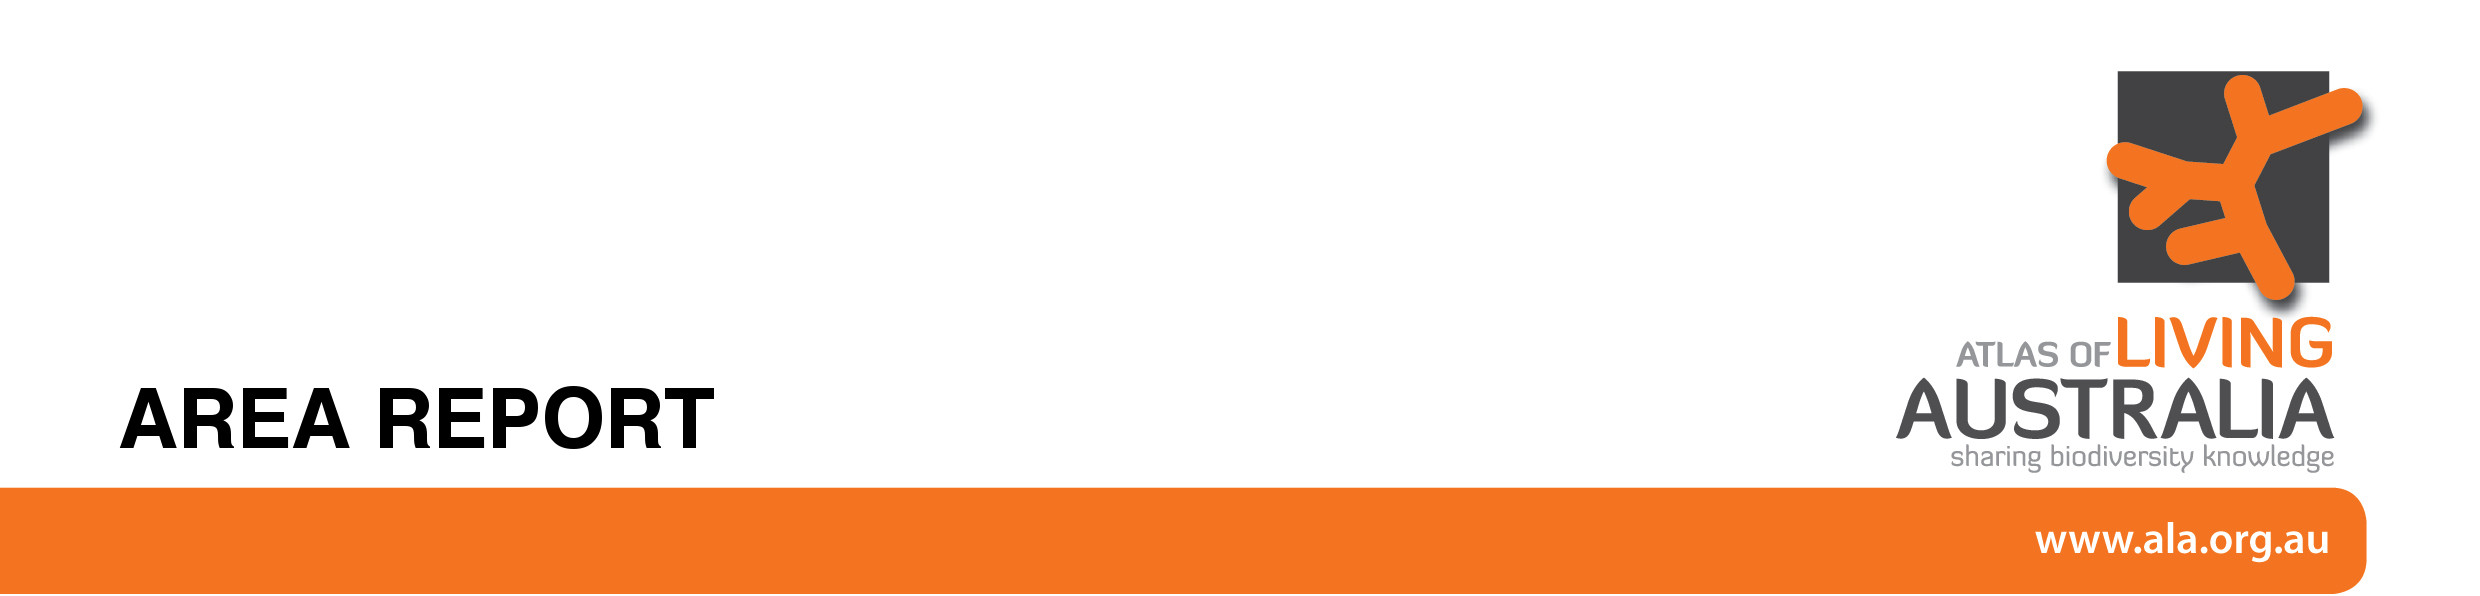
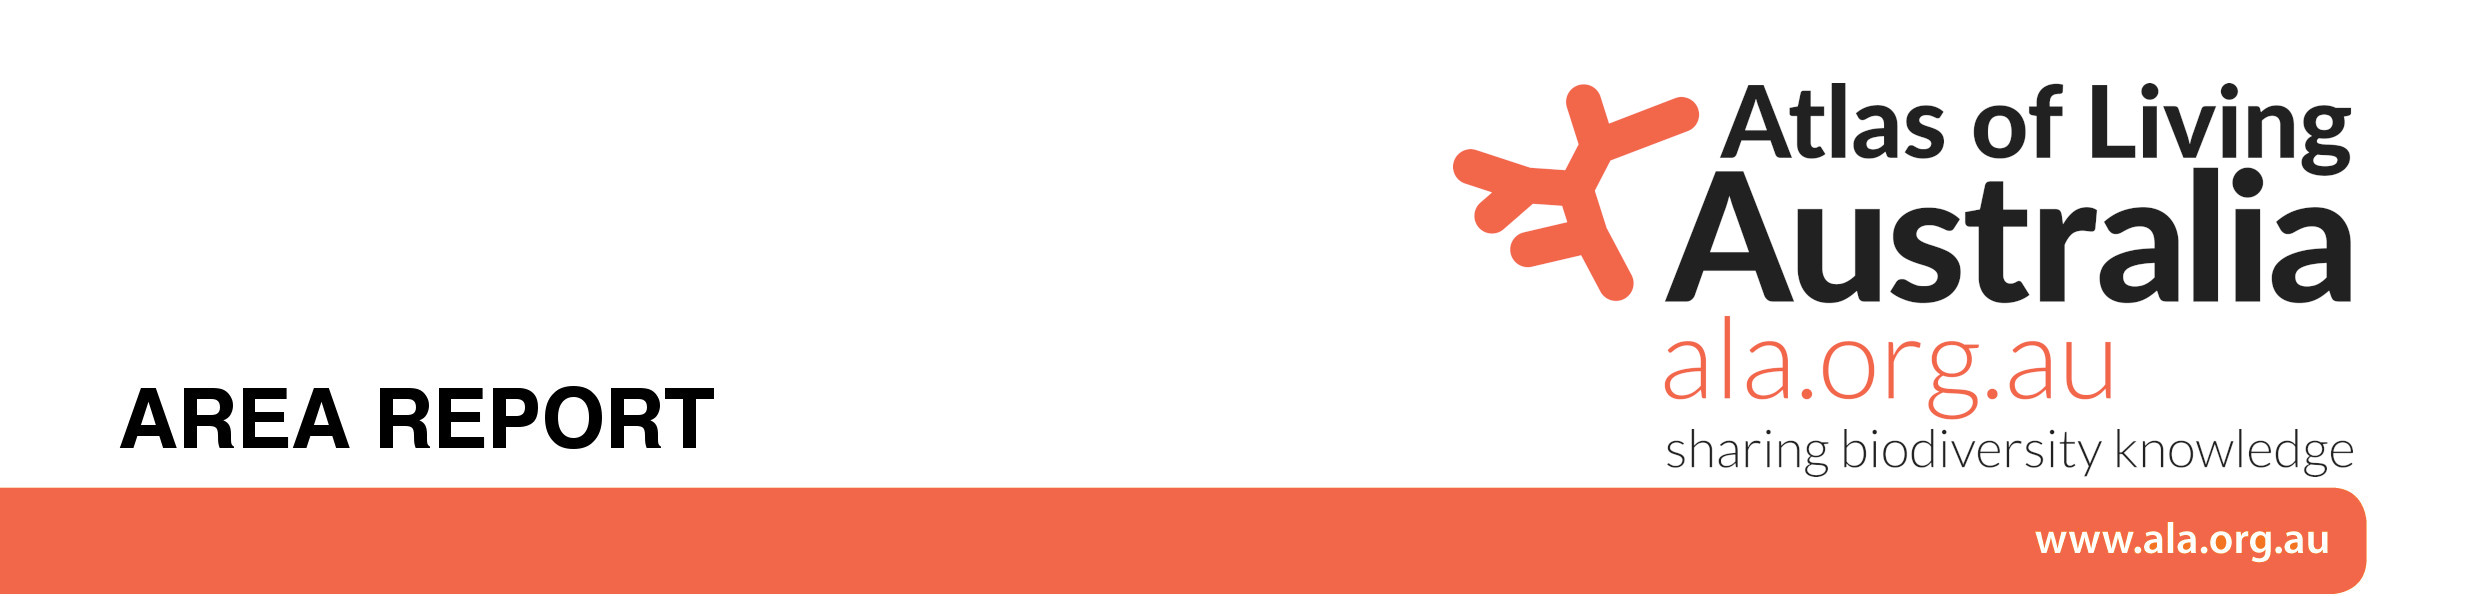
#268 update area report pdf links and header

Changed region(s): [[0.5589, 0.1208, 0.9625, 0.7852], [0.0, 0.8154, 0.9625, 0.9966]]

diff --git a/src/main/resources/areareport/furtherLinks.html b/src/main/resources/areareport/furtherLinks.html
@@ -25,49 +25,48 @@
 
     <h2>Federal</h2>
 
-    <p>Department of the Environment: <a href='https://www.environment.gov.au/'>https://www.environment.gov.au/</a></p>
+    <p>Department of Climate Change, Energy, the Environment and Water: <a href='https://www.dcceew.gov.au'>https://www.dcceew.gov.au</a></p>
     <br></br>
 
     <h2>State/Territory</h2>
 
     <h3>Australian Capital Territory</h3>
 
-    <p>Environment and Sustainable Development Directorate: <a href='https://www.environment.act.gov.au/'>https://www.environment.act.gov.au/</a>
+    <p>Environment and Sustainable Development Directorate: <a href='https://www.act.gov.au/environment'>https://www.act.gov.au/environment</a>
     </p>
 
     <h3>New South Wales</h3>
 
-    <p>Office of Environment and Heritage: <a
-            href='http://www.environment.nsw.gov.au/'>http://www.environment.nsw.gov.au/</a></p>
+    <p>Department of Climate Change, Energy, the Environment and Water: <a
+            href='https://www.environment.nsw.gov.au'>https://www.environment.nsw.gov.au</a></p>
 
     <h3>Northern Territory</h3>
 
-    <p>Department of Land Resource Management: <a href='https://www.lrm.nt.gov.au/'>'https://www.lrm.nt.gov.au/</a></p>
+    <p>Department of Lands, Planning and Environment: <a href='https://environment.nt.gov.au'>https://environment.nt.gov.au</a></p>
 
     <h3>Queensland</h3>
 
-    <p>Department of Environment and Heritage Protection: <a
-            href='https://www.ehp.qld.gov.au/'>https://www.ehp.qld.gov.au/</a></p>
+    <p>Department of the Environment, Tourism, Science and Innovation: <a
+            href='https://environment.qld.gov.au'>https://environment.qld.gov.au</a></p>
 
     <h3>South Australia</h3>
 
-    <p>Department of Environment, Water and Natural Resources: <a href='https://www.environment.sa.gov.au/Home'>'https://www.environment.sa.gov.au/Home</a>
+    <p>Department for Environment and Water: <a href='https://www.environment.sa.gov.au/'>https://www.environment.sa.gov.au</a>
     </p>
 
     <h3>Tasmania</h3>
 
-    <p>Department of Primary Industries, Parks, Water and Environment: <a href='http://www.dpiw.tas.gov.au/'>http://www.dpiw.tas.gov.au/</a>
+    <p>Department of Natural Resources and Environment Tasmania: <a href='https://nre.tas.gov.au/'>https://nre.tas.gov.au</a>
     </p>
-
-    <h3>Western Australia</h3>
-
-    <p>Department of Parks and Wildlife: <a href='https://www.dpaw.wa.gov.au/'>https://www.dpaw.wa.gov.au/</a></p>
 
     <h3>Victoria</h3>
 
-    <p>Department of Environment and Primary Industries: <a
-            href='http://www.depi.vic.gov.au/'>http://www.depi.vic.gov.au/</a></p>
+    <p>Department of Energy, Environment and Climate Action: <a
+            href='https://www.deeca.vic.gov.au'>https://www.deeca.vic.gov.au</a></p>
 
+    <h3>Western Australia</h3>
+
+    <p>Department of Biodiversity, Conservation and Attractions: <a href='https://www.dbca.wa.gov.au'>https://www.dbca.wa.gov.au</a></p>
 
     <h1 class='title' id='References' style="page-break-before: always">References</h1>
     <br></br>
